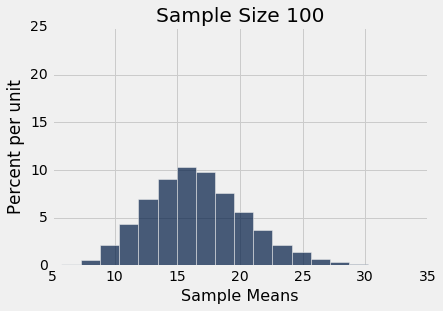
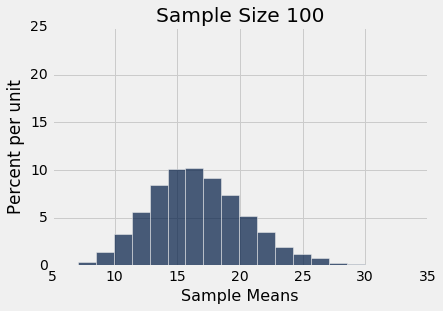
Build notebooks

Changed region(s): [[0.1761, 0.5209, 0.6163, 0.8682], [0.6163, 0.7524, 0.7336, 0.8392], [0.7336, 0.8392, 0.7923, 0.8682]]

diff --git a/notebooks-html/Variability_of_the_Sample_Mean.html b/notebooks-html/Variability_of_the_Sample_Mean.html
@@ -11,7 +11,7 @@
 </script>
 <div class="inner_cell">
 <div class="text_cell_render border-box-sizing rendered_html">
-<h3 id="The-Variability-of-the-Sample-Mean">The Variability of the Sample Mean<a class="anchor-link" href="#The-Variability-of-the-Sample-Mean">¶</a></h3><p>By the Central Limit Theorem, the probability distribution of a the mean of a large random sample is roughly normal. The bell curve is centered at the population mean. Some of the sample means are higher, and some lower, but the deviations from the population mean are roughly symmetric on either side, as we have seen repeatedly. Formally, probability theory shows that the sample mean is an <em>unbiased</em> estimate of the population mean.</p>
+<h3 id="The-Variability-of-the-Sample-Mean">The Variability of the Sample Mean<a class="anchor-link" href="#The-Variability-of-the-Sample-Mean">¶</a></h3><p>By the Central Limit Theorem, the probability distribution of the mean of a large random sample is roughly normal. The bell curve is centered at the population mean. Some of the sample means are higher, and some lower, but the deviations from the population mean are roughly symmetric on either side, as we have seen repeatedly. Formally, probability theory shows that the sample mean is an <em>unbiased</em> estimate of the population mean.</p>
 <p>In our simulations, we also noticed that the means of larger samples tend to be more tightly clustered around the population mean than means of smaller samples. In this section, we will quantify the variability of the sample mean and develop a relation between the variability and the sample size.</p></div></div>
 <div class="inner_cell">
 <div class="text_cell_render border-box-sizing rendered_html">
@@ -71,9 +71,9 @@
 <div class="output_subarea output_stream output_stdout output_text">
 <pre>Sample size:  100
 Population mean: 16.6581555154
-Average of sample means:  16.637895
+Average of sample means:  16.662059
 Population SD: 39.4801998516
-SD of sample means: 3.9921668025
+SD of sample means: 3.90507237968
 </pre></div>
 <div class="output_png output_subarea ">
 <img src="/notebooks-images/Variability_of_the_Sample_Mean_9_1.png"/></div>
@@ -86,9 +86,9 @@ SD of sample means: 3.9921668025
 <div class="output_subarea output_stream output_stdout output_text">
 <pre>Sample size:  400
 Population mean: 16.6581555154
-Average of sample means:  16.6433635
+Average of sample means:  16.67117625
 Population SD: 39.4801998516
-SD of sample means: 1.97280960228
+SD of sample means: 1.98326299651
 </pre></div>
 <div class="output_png output_subarea ">
 <img src="/notebooks-images/Variability_of_the_Sample_Mean_10_1.png"/></div>
@@ -100,17 +100,17 @@ SD of sample means: 1.97280960228
 </pre></div></div></div>
 <div class="output_subarea output_stream output_stdout output_text">
 <pre>Sample size:  625
-Population average: 16.6581555154
-Average of sample averages:  16.63275904
+Population mean: 16.6581555154
+Average of sample means:  16.68523712
 Population SD: 39.4801998516
-SD of sample averages 1.56543771116
+SD of sample means: 1.60089096006
 </pre></div>
 <div class="output_png output_subarea ">
 <img src="/notebooks-images/Variability_of_the_Sample_Mean_11_1.png"/></div>
 <div class="inner_cell">
 <div class="text_cell_render border-box-sizing rendered_html">
 <p>You can see the Central Limit Theorem in action – the histograms of the sample means are roughly normal, even though the histogram of the delays themselves is far from normal.</p>
-<p>You can also see that each of the three histograms of the sample means is centered very close to the population mean. In each case, the "average of sample means" is very close to 16.66 minutes, the population mean. Both values are provided in the printout above each histogram.</p></div></div>
+<p>You can also see that each of the three histograms of the sample means is centered very close to the population mean. In each case, the "average of sample means" is very close to 16.66 minutes, the population mean. Both values are provided in the printout above each histogram. As expected, the sample mean is an unbiased estimate of the population mean.</p></div></div>
 <div class="inner_cell">
 <div class="text_cell_render border-box-sizing rendered_html">
 <h3 id="The-SD-of-All-the-Sample-Means">The SD of All the Sample Means<a class="anchor-link" href="#The-SD-of-All-the-Sample-Means">¶</a></h3><p>You can also see that the histograms get narrower, and hence taller, as the sample size increases. We have seen that before, but now we will pay closer attention to the measure of spread.</p>
@@ -124,7 +124,7 @@ SD of sample averages 1.56543771116
 <pre>39.480199851609314</pre></div>
 <div class="inner_cell">
 <div class="text_cell_render border-box-sizing rendered_html">
-<p>Take a look at the SDs in the histograms above. In all three of them, the SD of the population of delays is about 40 minutes, because all the samples were taken from the same population.</p>
+<p>Take a look at the SDs in the sample mean histograms above. In all three of them, the SD of the population of delays is about 40 minutes, because all the samples were taken from the same population.</p>
 <p>Now look at the SD of all 10,000 sample means, when the sample size is 100. That SD is about one-tenth of the population SD. When the sample size is 400, the SD of all the sample means is about one-twentieth of the population SD. When the sample size is 625, the SD of the sample means is about one-twentyfifth of the population SD.</p>
 <p>It seems like a good idea to compare the SD of the empirical distribution of the sample means to the quantity "population SD divided by the square root of the sample size."</p></div></div>
 <div class="inner_cell">
@@ -163,43 +163,43 @@ SD of sample averages 1.56543771116
     </thead>
     <tbody>
         <tr>
-            <td>25           </td> <td>7.81875                  </td> <td>7.89604       </td>
+            <td>25           </td> <td>7.95017                  </td> <td>7.89604       </td>
         </tr>
     </tbody>
         <tbody><tr>
-            <td>50           </td> <td>5.54507                  </td> <td>5.58334       </td>
+            <td>50           </td> <td>5.53425                  </td> <td>5.58334       </td>
         </tr>
     </tbody>
         <tbody><tr>
-            <td>75           </td> <td>4.53838                  </td> <td>4.55878       </td>
+            <td>75           </td> <td>4.54429                  </td> <td>4.55878       </td>
         </tr>
     </tbody>
         <tbody><tr>
-            <td>100          </td> <td>3.9376                   </td> <td>3.94802       </td>
+            <td>100          </td> <td>3.96157                  </td> <td>3.94802       </td>
         </tr>
     </tbody>
         <tbody><tr>
-            <td>125          </td> <td>3.5396                   </td> <td>3.53122       </td>
+            <td>125          </td> <td>3.51095                  </td> <td>3.53122       </td>
         </tr>
     </tbody>
         <tbody><tr>
-            <td>150          </td> <td>3.2533                   </td> <td>3.22354       </td>
+            <td>150          </td> <td>3.23949                  </td> <td>3.22354       </td>
         </tr>
     </tbody>
         <tbody><tr>
-            <td>175          </td> <td>2.97723                  </td> <td>2.98442       </td>
+            <td>175          </td> <td>3.00694                  </td> <td>2.98442       </td>
         </tr>
     </tbody>
         <tbody><tr>
-            <td>200          </td> <td>2.80106                  </td> <td>2.79167       </td>
+            <td>200          </td> <td>2.74606                  </td> <td>2.79167       </td>
         </tr>
     </tbody>
         <tbody><tr>
-            <td>225          </td> <td>2.6404                   </td> <td>2.63201       </td>
+            <td>225          </td> <td>2.63865                  </td> <td>2.63201       </td>
         </tr>
     </tbody>
         <tbody><tr>
-            <td>250          </td> <td>2.50004                  </td> <td>2.49695       </td>
+            <td>250          </td> <td>2.51853                  </td> <td>2.49695       </td>
         </tr>
     </tbody>
 </table>
@@ -238,8 +238,4 @@ $$</p>
 <div class="text_cell_render border-box-sizing rendered_html">
 <h3 id="The-Square-Root-Law">The Square Root Law<a class="anchor-link" href="#The-Square-Root-Law">¶</a></h3><p>From the table of SD comparisons, you can see that the SD of the means of random samples of 25 flight delays is about 8 minutes. If you multiply the sample size by 4, you'll get samples of size 100. The SD of the means of all of those samples is about 4 minutes. That's smaller than 8 minutes, but it's not 4 times as small; it's only 2 times as small. That's because the sample size in the denominator has a square root over it. The sample size increased by a factor of 4, but the SD went down by a factor of $2 = \sqrt{4}$. In other words, the accuracy went up by a factor of $2 = \sqrt{4}$.</p>
 <p>In general, when you multiply the sample size by a factor, the accuracy of the sample mean goes up by the square root of that factor.</p>
-<p>So to increase accuracy by a factor of 10, you have to multiply sample size by a factor of 100. Accuracy doesn't come cheap!</p></div></div>
-<div class="inner_cell">
-    <div class="input_area">
-<div class=" highlight hl-ipython3"><pre><span></span> 
-</pre></div></div></div></div>
+<p>So to increase accuracy by a factor of 10, you have to multiply sample size by a factor of 100. Accuracy doesn't come cheap!</p></div></div></div>

diff --git a/notebooks-html/Choosing_a_Sample_Size.html b/notebooks-html/Choosing_a_Sample_Size.html
@@ -46,8 +46,80 @@ $$</div></div>
 <p>Remember that the possible values in the population are only 0 and 1.</p>
 <p>The blue histogram (50% 1's and 50% 0's) has more spread than the gold. The mean is 0.5. Half the deviations from mean are equal to 0.5 and the other half equal to -0.5, so the SD is 0.5.</p>
 <p>In the gold histogram, all of the area is being squished up around 1, leading to less spread. 90% of the deviations are small: 0.1. The other 10% are -0.9 which is large, but overall the spread is smaller than in the blue histogram.</p>
-<p>The same observation would hold if we varied the proportion of 1's or let the proportion of 0's be larger than the proportion of 1's. In fact:</p>
-<p><strong>The SD of a population of 1's and 0's is at most 0.5. That's the value of the SD when 50% of the population is coded 1 and the other 50% are coded 0.</strong></p></div></div>
+<p>The same observation would hold if we varied the proportion of 1's or let the proportion of 0's be larger than the proportion of 1's. Let's check this by calculating the SDs of populations of 10 elements that only consist of 0's and 1's, in varying proportions. The function <code>np.ones</code> is useful for this. It takes a positive integer as its argument and returns an array consisting of that many 1's.</p></div></div>
+<div class="inner_cell">
+    <div class="input_area">
+<div class=" highlight hl-ipython3"><pre><span></span><span class="n">sd</span> <span class="o">=</span> <span class="n">make_array</span><span class="p">()</span>
+<span class="k">for</span> <span class="n">i</span> <span class="ow">in</span> <span class="n">np</span><span class="o">.</span><span class="n">arange</span><span class="p">(</span><span class="mi">1</span><span class="p">,</span> <span class="mi">10</span><span class="p">,</span> <span class="mi">1</span><span class="p">):</span>
+    <span class="c1"># Create an array of i 1's and (10-i) 0's</span>
+    <span class="n">population</span> <span class="o">=</span> <span class="n">np</span><span class="o">.</span><span class="n">append</span><span class="p">(</span><span class="n">np</span><span class="o">.</span><span class="n">ones</span><span class="p">(</span><span class="n">i</span><span class="p">),</span> <span class="mi">1</span><span class="o">-</span><span class="n">np</span><span class="o">.</span><span class="n">ones</span><span class="p">(</span><span class="mi">10</span><span class="o">-</span><span class="n">i</span><span class="p">))</span>
+    <span class="n">sd</span> <span class="o">=</span> <span class="n">np</span><span class="o">.</span><span class="n">append</span><span class="p">(</span><span class="n">sd</span><span class="p">,</span> <span class="n">np</span><span class="o">.</span><span class="n">std</span><span class="p">(</span><span class="n">population</span><span class="p">))</span>
+    
+<span class="n">zero_one_sds</span> <span class="o">=</span> <span class="n">Table</span><span class="p">()</span><span class="o">.</span><span class="n">with_columns</span><span class="p">(</span>
+    <span class="s2">"Population Proportion of 1's"</span><span class="p">,</span> <span class="n">np</span><span class="o">.</span><span class="n">arange</span><span class="p">(</span><span class="mf">0.1</span><span class="p">,</span> <span class="mi">1</span><span class="p">,</span> <span class="mf">0.1</span><span class="p">),</span>
+    <span class="s2">"Population SD"</span><span class="p">,</span> <span class="n">sd</span>
+<span class="p">)</span>
+
+<span class="n">zero_one_sds</span>
+</pre></div></div></div>
+<div class="output_html rendered_html output_subarea output_execute_result">
+<table border="1" class="dataframe">
+    <thead>
+        <tr>
+            <th>Population Proportion of 1's</th> <th>Population SD</th>
+        </tr>
+    </thead>
+    <tbody>
+        <tr>
+            <td>0.1                         </td> <td>0.3          </td>
+        </tr>
+    </tbody>
+        <tbody><tr>
+            <td>0.2                         </td> <td>0.4          </td>
+        </tr>
+    </tbody>
+        <tbody><tr>
+            <td>0.3                         </td> <td>0.458258     </td>
+        </tr>
+    </tbody>
+        <tbody><tr>
+            <td>0.4                         </td> <td>0.489898     </td>
+        </tr>
+    </tbody>
+        <tbody><tr>
+            <td>0.5                         </td> <td>0.5          </td>
+        </tr>
+    </tbody>
+        <tbody><tr>
+            <td>0.6                         </td> <td>0.489898     </td>
+        </tr>
+    </tbody>
+        <tbody><tr>
+            <td>0.7                         </td> <td>0.458258     </td>
+        </tr>
+    </tbody>
+        <tbody><tr>
+            <td>0.8                         </td> <td>0.4          </td>
+        </tr>
+    </tbody>
+        <tbody><tr>
+            <td>0.9                         </td> <td>0.3          </td>
+        </tr>
+    </tbody>
+</table></div>
+<div class="inner_cell">
+<div class="text_cell_render border-box-sizing rendered_html">
+<p>Not surprisingly, the SD of a population with 10% 1's and 90% 0's is the same as that of a population with 90% 1's and 10% 0's. That's because you switch the bars of one histogram to get the other; there is no change in spread.</p>
+<p>More importantly for our purposes, the SD increases as the proportion of 1's increases, until the proportion of 1's is 0.5; then it starts to decrease symmetrically.</p></div></div>
+<div class="inner_cell">
+    <div class="input_area">
+<div class=" highlight hl-ipython3"><pre><span></span><span class="n">zero_one_sds</span><span class="o">.</span><span class="n">scatter</span><span class="p">(</span><span class="s2">"Population Proportion of 1's"</span><span class="p">)</span>
+</pre></div></div></div>
+<div class="output_png output_subarea ">
+<img src="/notebooks-images/Choosing_a_Sample_Size_8_0.png"/></div>
+<div class="inner_cell">
+<div class="text_cell_render border-box-sizing rendered_html">
+<p><strong>Summary:</strong> The SD of a population of 1's and 0's is at most 0.5. That's the value of the SD when 50% of the population is coded 1 and the other 50% are coded 0.</p></div></div>
 <div class="inner_cell">
 <div class="text_cell_render border-box-sizing rendered_html">
 <h3 id="The-Sample-Size">The Sample Size<a class="anchor-link" href="#The-Sample-Size">¶</a></h3><p>We know that 
